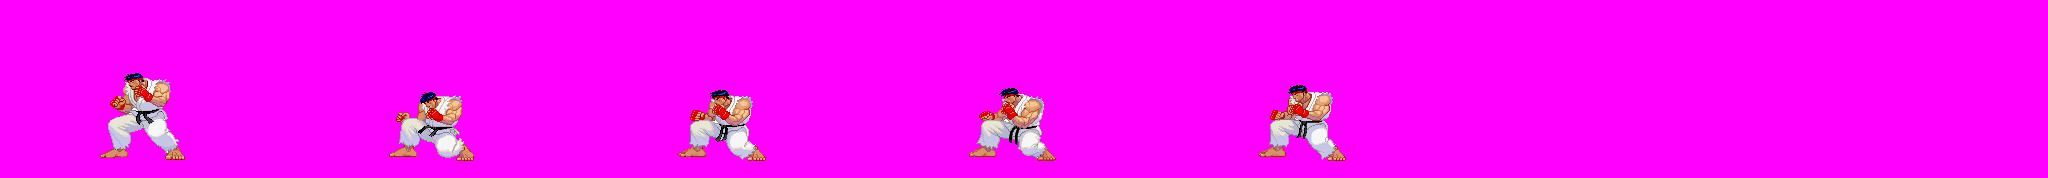
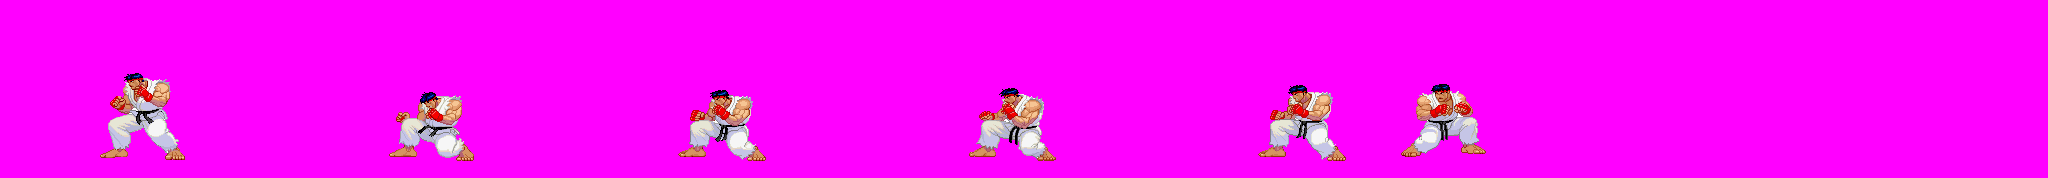
Defesa para baixo implementada

Changed region(s): [[0.6875, 0.4775, 0.75, 0.8708]]

diff --git a/Street Fighter/src/action/Ryu/DefesaParaBaixo.cs b/Street Fighter/src/action/Ryu/DefesaParaBaixo.cs
@@ -1,0 +1,23 @@
+using Microsoft.Xna.Framework;
+using Microsoft.Xna.Framework.Content;
+using Microsoft.Xna.Framework.Graphics;
+using Street_Fighter.interfaces;
+
+namespace Street_Fighter.action.Ryu
+{
+    class DefesaParaBaixo : Action
+    {
+        public DefesaParaBaixo()
+            : base(null, "Chute3")
+        {
+            this.updateInterval = 350;
+            this.spriteSheet = ContentManagerFacade.Load<Texture2D>(@"Ryu\ryu_defesa_para_baixo");
+            this.steps.Add(new Rectangle(99, 68, 87, 93));
+            this.steps.Add(new Rectangle(385, 87, 92, 75));
+            this.steps.Add(new Rectangle(1258, 81, 90, 81));
+            this.steps.Add(new Rectangle(99, 68, 87, 93));
+
+        }
+    }
+}
+  

diff --git a/Street Fighter/src/lutadores/Ryu.cs b/Street Fighter/src/lutadores/Ryu.cs
@@ -28,6 +28,7 @@ namespace Street_Fighter.lutadores
             actions.Add(new Chute4());
             actions.Add(new Recuar(this));
             actions.Add(new Avancar(this));
+            actions.Add(new DefesaParaBaixo());
             this.currentAction = actions[0];
 
 
@@ -47,6 +48,8 @@ namespace Street_Fighter.lutadores
                     this.currentAction = actions[5];
                 else if (state.IsKeyDown(Keys.Left))
                     this.currentAction = actions[6];
+                else if (state.IsKeyDown(Keys.Down))
+                    this.currentAction = actions[7];
 
             }
 
